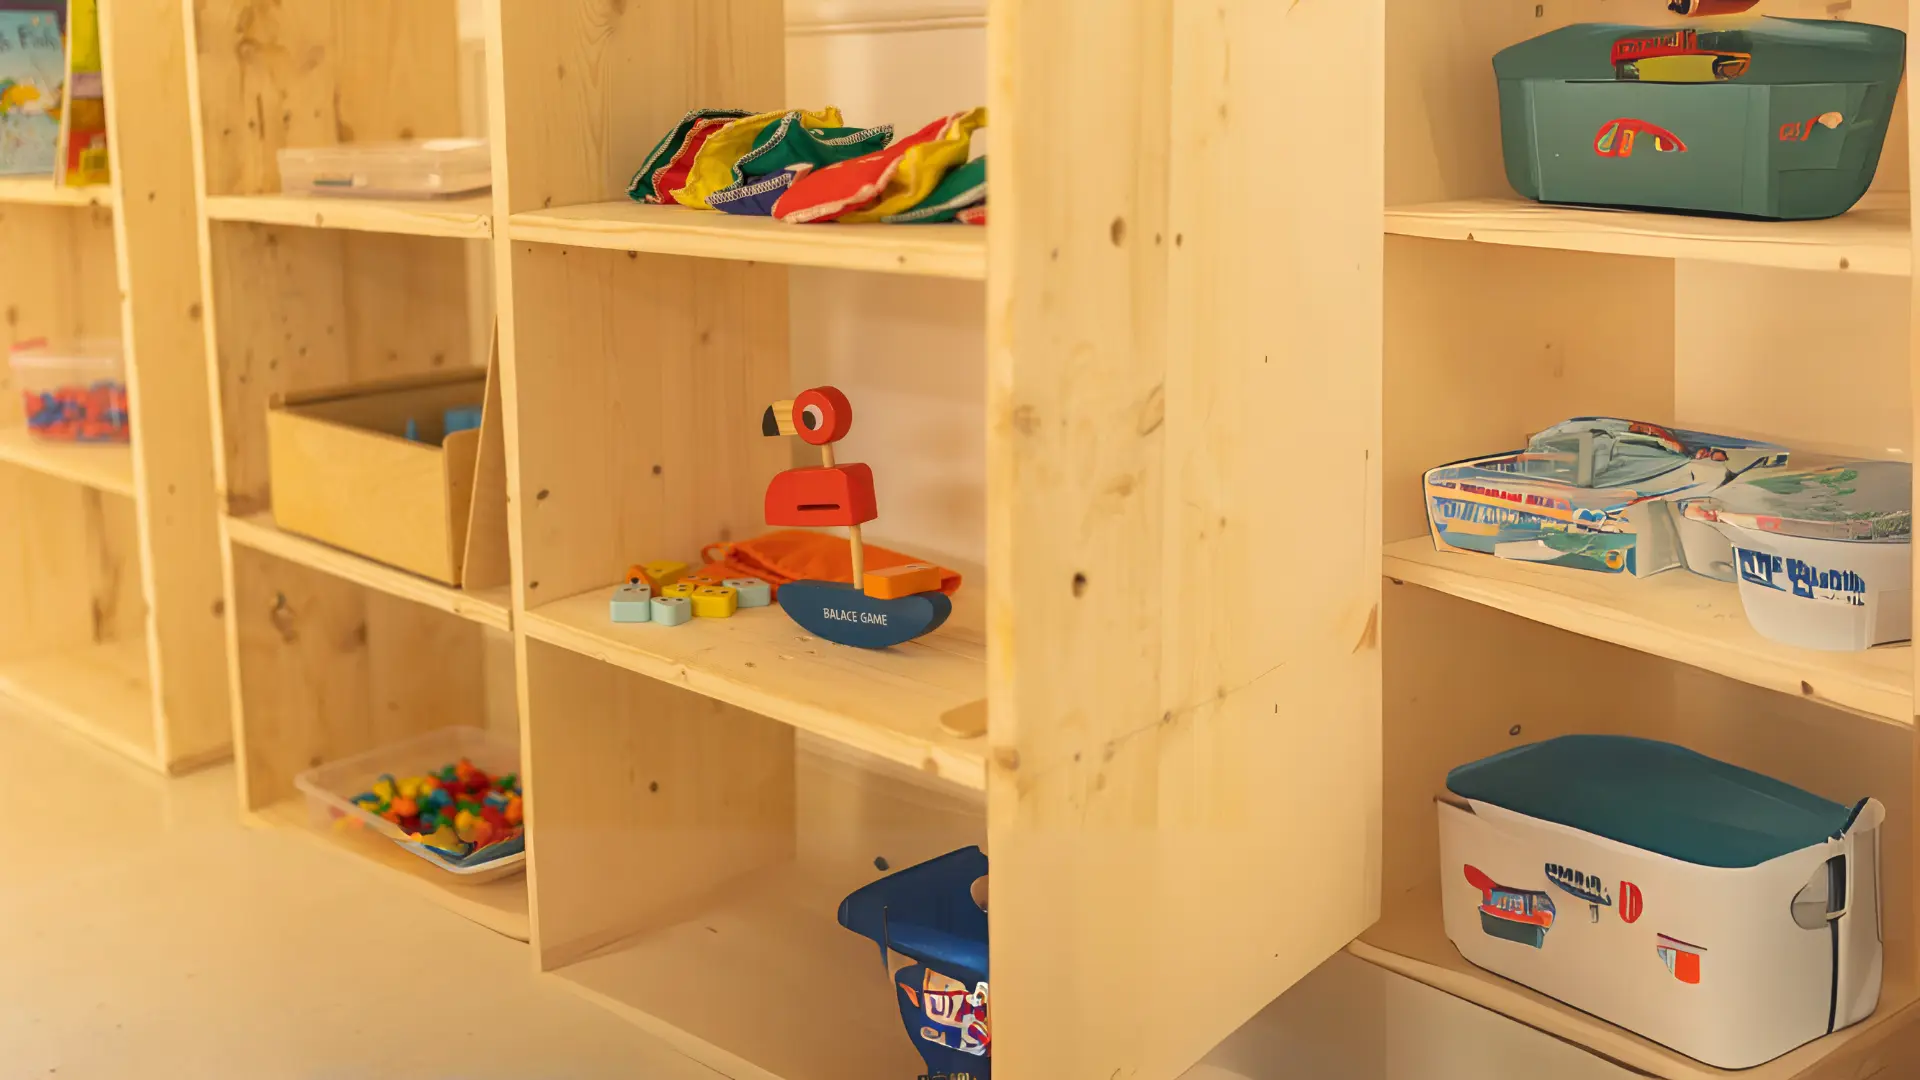
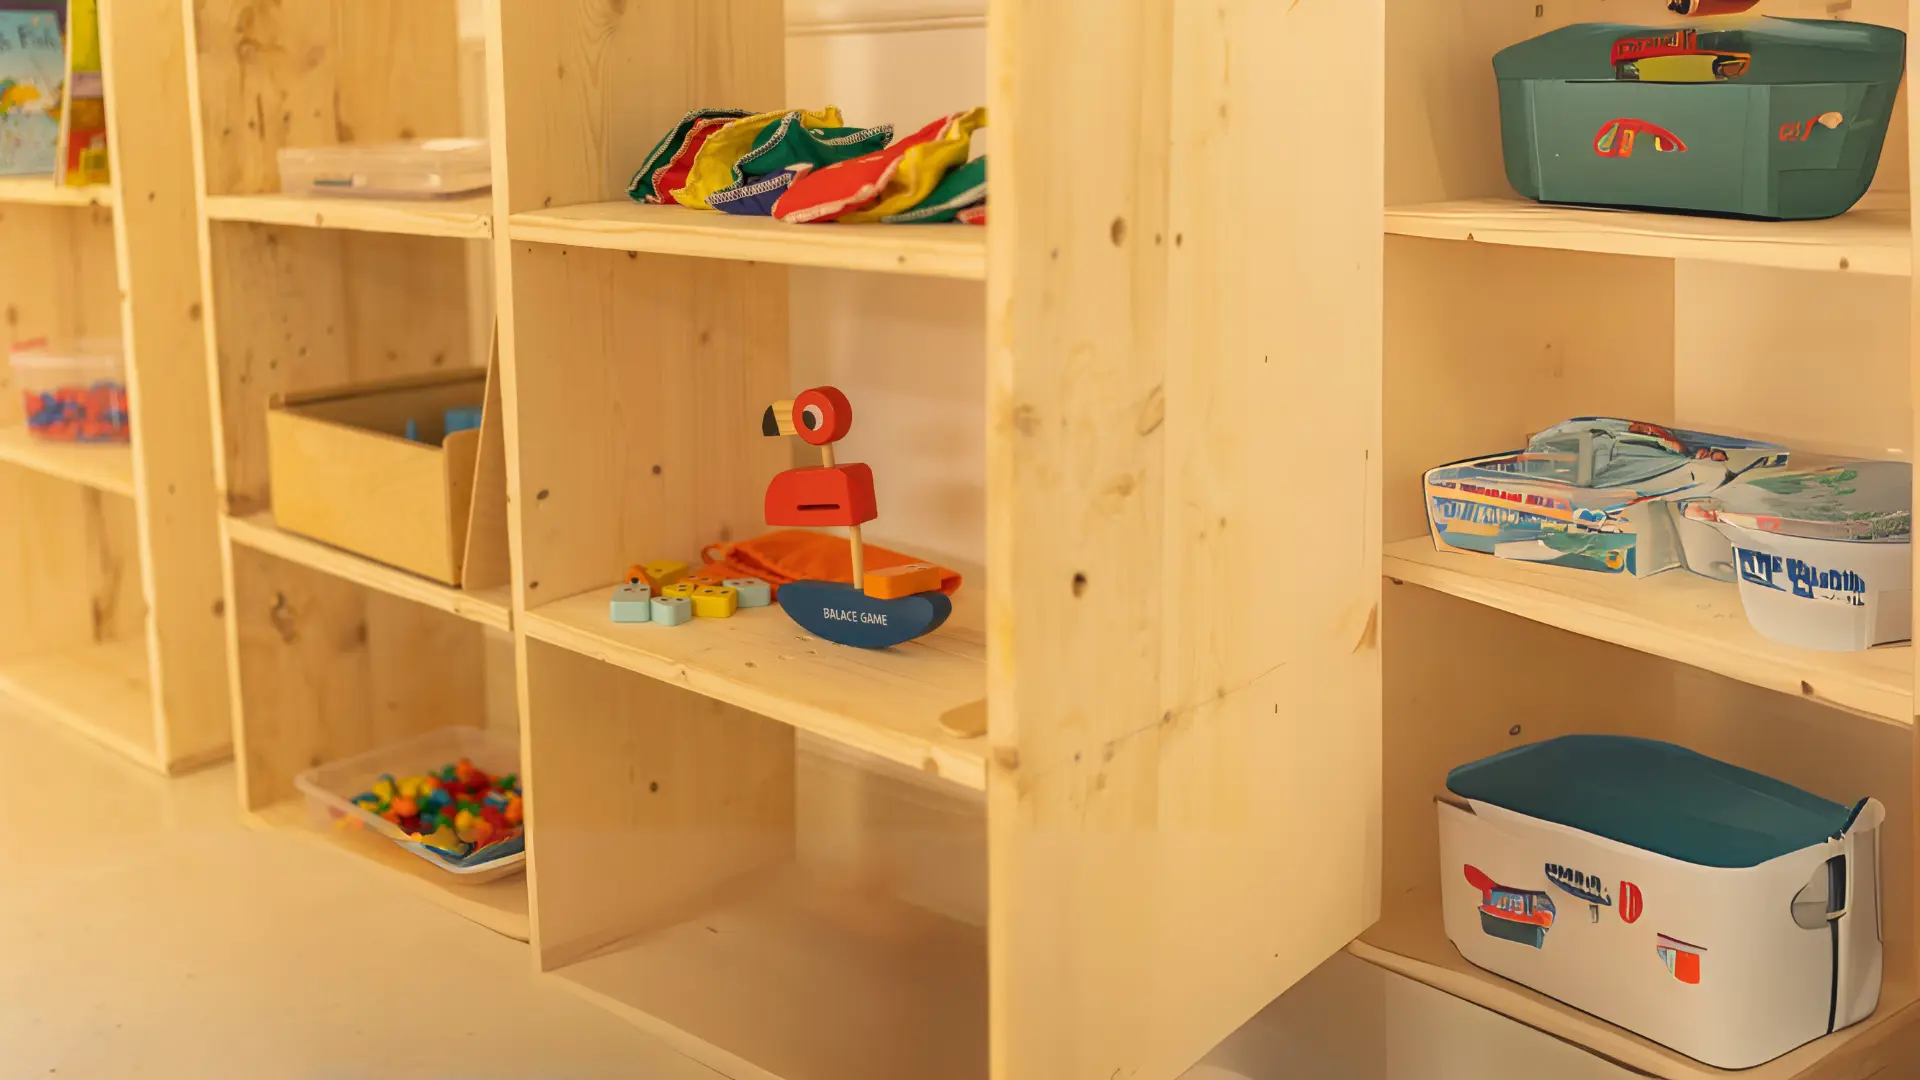
image changes

Changed region(s): [[0.4375, 0.7639, 0.5312, 1.0]]

diff --git a/Programmes.html b/Programmes.html
@@ -372,7 +372,7 @@
         <!-- CONTENT START -->
         <div class="page-content">
             <!-- INNER PAGE BANNER -->
-            <div class="sx-bnr-inr overlay-wraper bg-parallax bg-center bg-no-repeat"  data-stellar-background-ratio="0.5"  style="background:url(images/banner/11.webp);">
+            <div class="sx-bnr-inr overlay-wraper bg-parallax bg-cover bg-no-repeat"  data-stellar-background-ratio="0.5"  style="background:url(images/banner/11.webp);">
                 <div class="overlay-main bg-black opacity-01"></div>
                 <div class="container">
                     <div class="sx-bnr-inr-entry">
